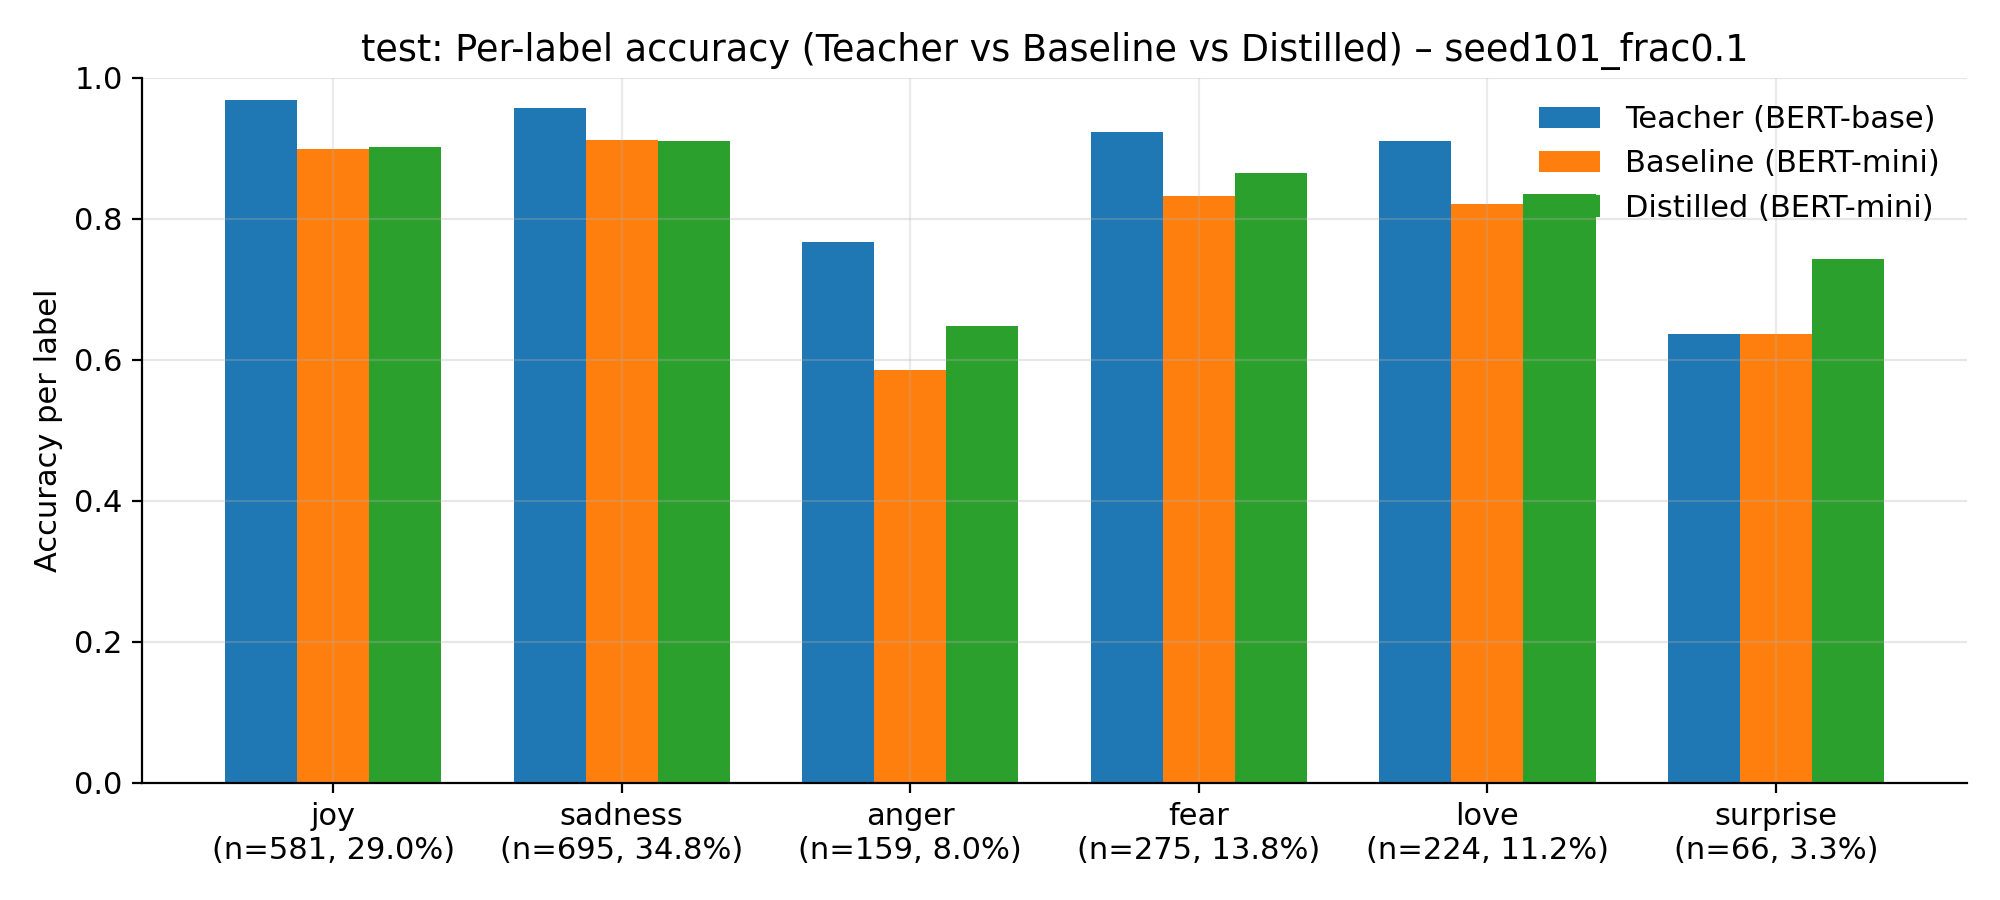
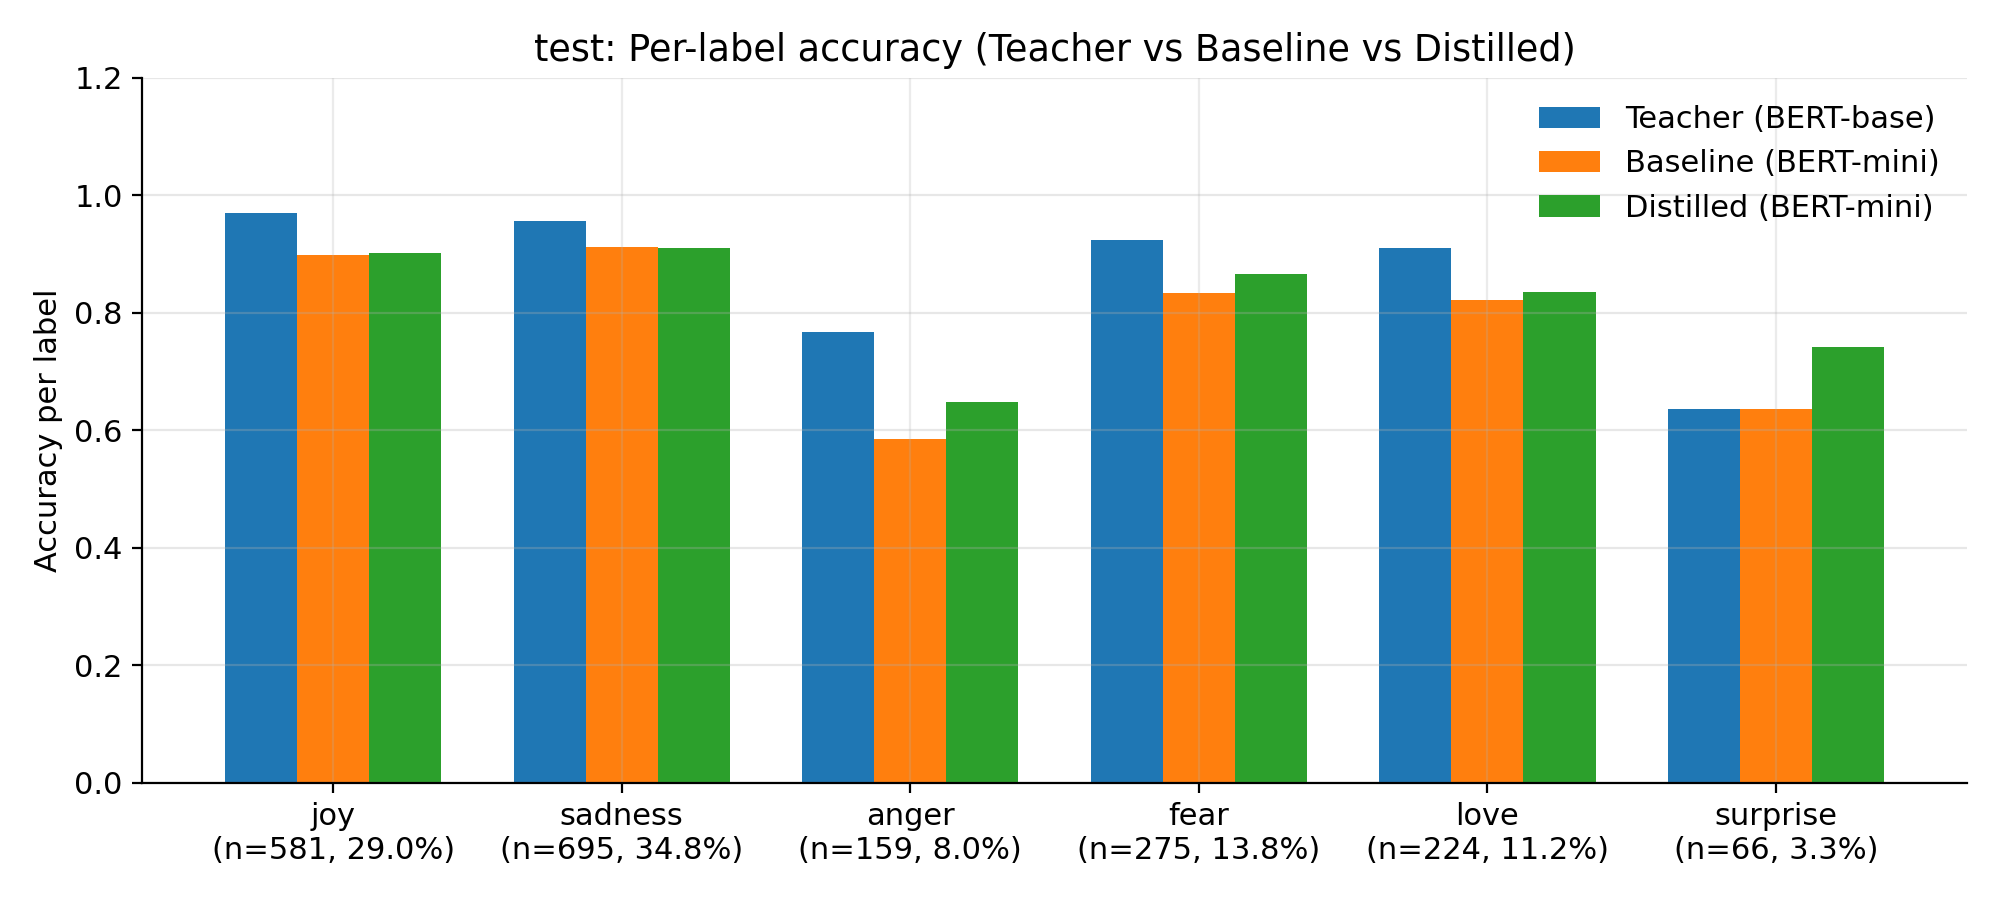
Fix some eval plots

diff --git a/project/evaluation.py b/project/evaluation.py
@@ -539,11 +539,11 @@ def deep_predictions_analysis(outputs_dir: str = "./outputs", results_dir: str =
             frac = (n / total) if total > 0 else 0.0
             tick_labels.append(f"{cls}\n(n={n}, {100*frac:.1f}%)")
 
-        plt.ylim(0.0, 1.0)
+        plt.ylim(0.0, 1.2)
         plt.grid(True, axis="y", alpha=0.3)
         plt.xticks(x, tick_labels, rotation=0, ha="center")
         plt.ylabel("Accuracy per label")
-        plt.title(f"{split}: Per-label accuracy (Teacher vs Baseline vs Distilled) – {run_id}")
+        plt.title(f"{split}: Per-label accuracy (Teacher vs Baseline vs Distilled)")
         plt.legend()
         plt.tight_layout()
         plt.savefig(fig_path, dpi=200)
